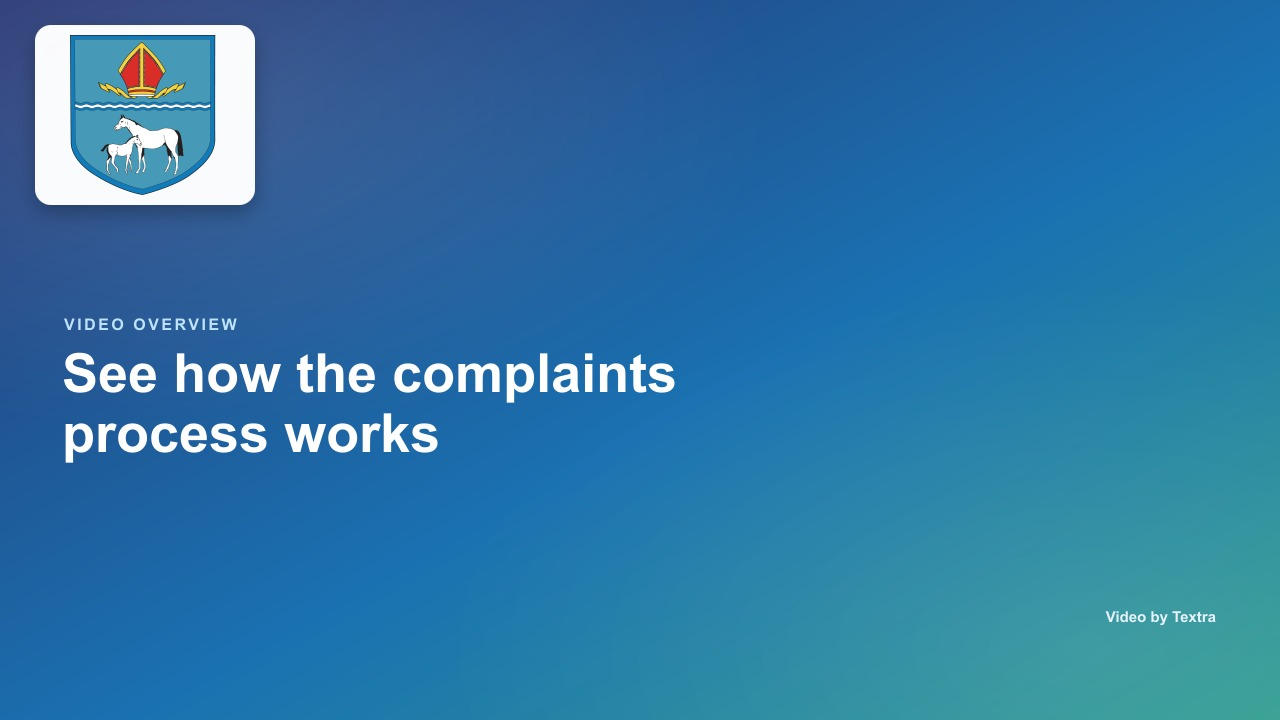
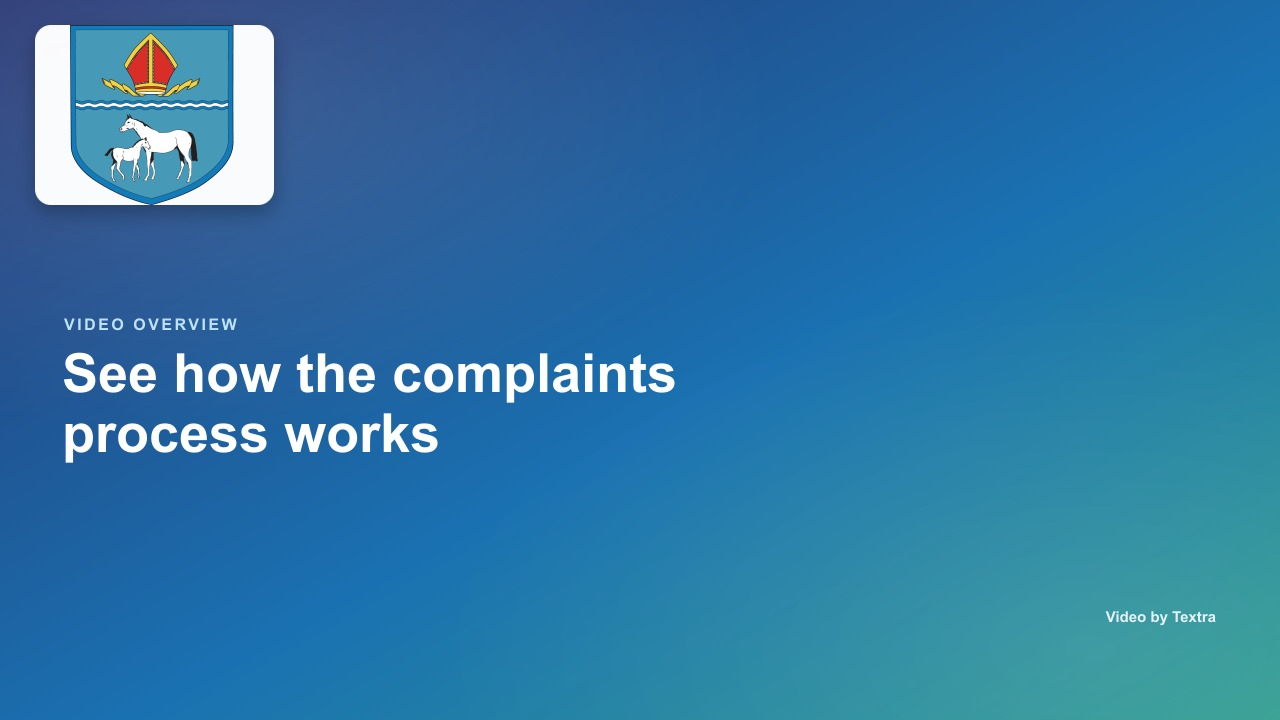
Add maxW/maxH parameters; Camden small, East Cambs large

Changed region(s): [[0.0312, 0.0306, 0.2188, 0.3056]]

diff --git a/scripts/generate-demo-poster.js b/scripts/generate-demo-poster.js
@@ -63,9 +63,10 @@ async function main() {
   const logoB64 = fs.readFileSync(logoPath).toString('base64');
   const logoMime = logoPath.toLowerCase().endsWith('.jpg') || logoPath.toLowerCase().endsWith('.jpeg') ? 'jpeg' : 'png';
 
-  // Fit the logo into a badge up to 400x160, preserving aspect ratio (larger for better visibility).
+  // Fit the logo into a badge, preserving aspect ratio (customizable via --maxW and --maxH).
   const logoMeta = await sharp(logoPath).metadata();
-  const maxW = 400, maxH = 160;
+  const maxW = parseInt(args.maxW) || 400;
+  const maxH = parseInt(args.maxH) || 90;
   const scale = Math.min(maxW / logoMeta.width, maxH / logoMeta.height);
   const logoW = Math.round(logoMeta.width * scale);
   const logoH = Math.round(logoMeta.height * scale);
